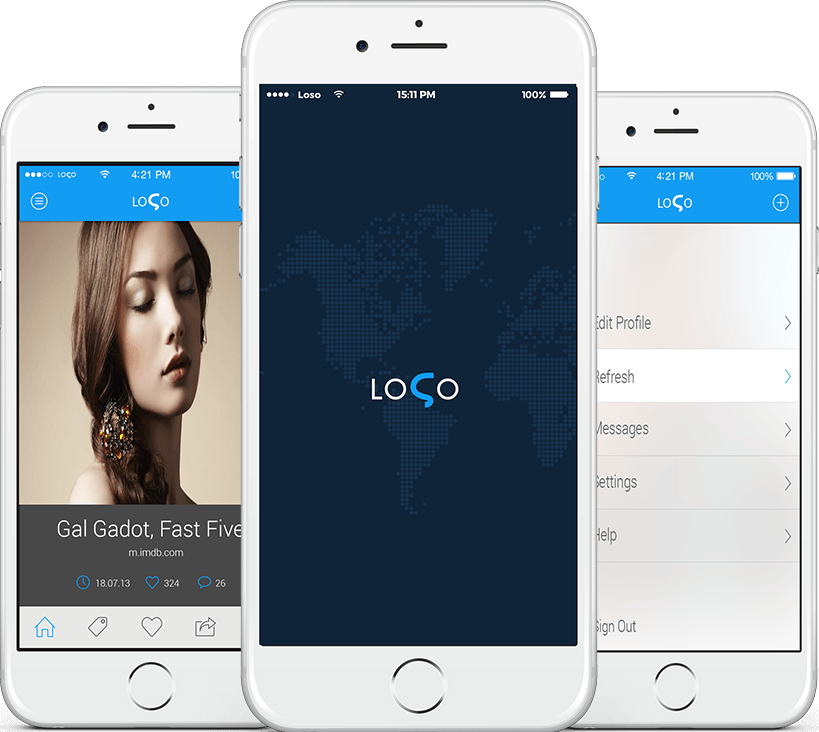
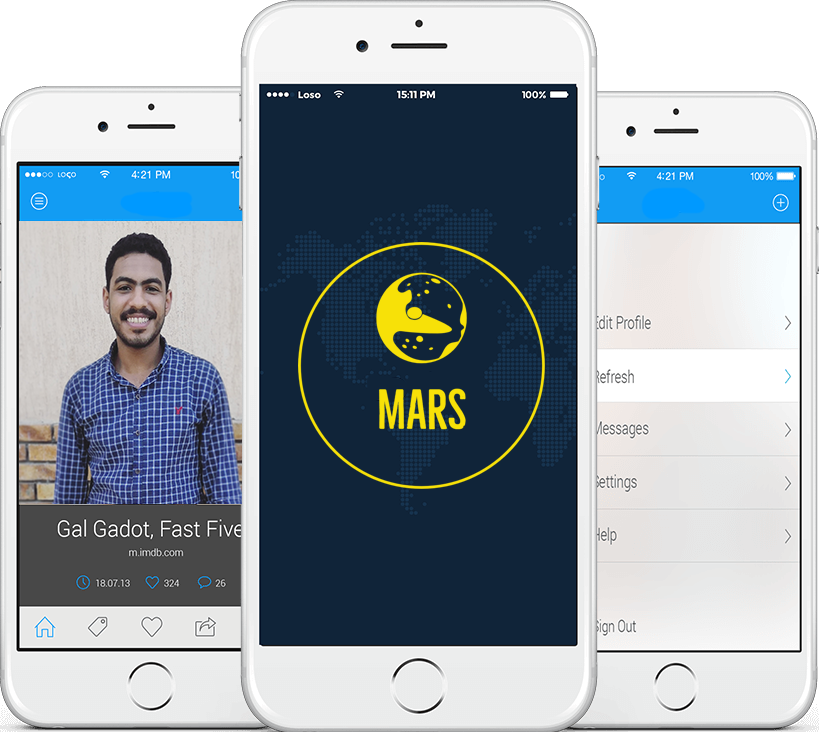
header

diff --git a/index.html b/index.html
@@ -3,47 +3,70 @@
 <html>
 
 <head>
-    <title>Loso</title>
+    <title>Mars</title>
     <meta charset="UTF-8" />
     <meta http-equiv="X-UA-Compatible" content="IE=edge" />
     <meta name="viewport" content="width=device-width, initial-scale=1.0" />
     <meta name="description" content="Simple, clean, responsive website built with html5, CSS3, Js, jQuery and Bootstrap" />
-
     <meta name="keywords" content="web, design, html, css, html5, css3, javascript, jquery, bootstrap, development" />
-
     <!-- Google Fonts -->
     <link rel="preconnect" href="https://fonts.googleapis.com" />
     <link rel="preconnect" href="https://fonts.gstatic.com" crossorigin />
-    <link href="https://fonts.googleapis.com/css2?family=Cairo:wght@200;300;400;500;600;700;800&family=Dancing+Script:wght@400;500;700&family=Indie+Flower&family=Pacifico&family=Patrick+Hand&family=Pushster&family=Raleway:ital,wght@0,300;0,400;0,500;0,700;0,800;1,700&display=swap"
-        rel="stylesheet" />
-    <link rel="preconnect" href="https://fonts.googleapis.com" />
-    <link rel="preconnect" href="https://fonts.gstatic.com" crossorigin />
-    <link href="https://fonts.googleapis.com/css2?family=Cairo:wght@200;300;400;500;600;700;800&family=Dancing+Script:wght@400;500;700&family=Indie+Flower&family=Pacifico&family=Patrick+Hand&family=Pushster&family=Raleway:ital,wght@0,300;0,400;0,500;0,700;0,800;1,700&family=Source+Sans+Pro:ital,wght@0,200;0,300;0,400;0,700;0,900;1,200;1,400;1,700&display=swap"
-        rel="stylesheet" />
-
+    <link href="https://fonts.googleapis.com/css2?family=Raleway:ital,wght@0,200;0,300;0,400;0,500;0,700;0,800;0,900;1,400;1,600;1,900&display=swap" rel="stylesheet" />
+    <link href="https://fonts.googleapis.com/css2?family=Source+Sans+Pro:ital,wght@0,400;0,600;0,700;0,900;1,300;1,400;1,600;1,700;1,900&display=swap" rel="stylesheet" />
     <!-- favicon -->
-    <link rel="icon" type="image/png" href="./images/favicon.png" />
-
-    <!-- CSS -->
+    <link rel="icon" type="image/png" href="./images/Mars (1).png" />
+    <!-- CSS Bootstrap -->
     <link rel="stylesheet" type="text/css" href="css/bootstrap.min.css" />
-
     <!-- Fontawesome  -->
-    <link rel="stylesheet" href="./css/fontawesome.min.css" />
+    <script src="https://kit.fontawesome.com/231bdf8c0f.js" crossorigin="anonymous"></script>
     <link rel="stylesheet" href="./css/all.min.css" />
-
     <!-- Animate CSS -->
     <!-- <link rel="stylesheet" type="text/css" href="css/animate.css"> -->
-
     <link rel="stylesheet" type="text/css" href="./css/style.css" />
-
     <!-- BX slider CSS -->
     <!-- <link rel="stylesheet" type="text/css" href="css/jquery.bxslider.css" /> -->
-
     <!-- responsive css -->
     <!-- <link rel="stylesheet" type="text/css" href="css/responsive.css"> -->
 </head>
 
 <body>
+    <header class="header">
+        <div class="header-overlay">
+            <div class="container">
+                <div class="row">
+                    <div class="col-md-12">
+                        <!-- logo -->
+                        <div class="logo text-center">
+                            <img src="./images/Mars.png" style="width: 220px; height: 60px" alt="logo" />
+                        </div>
+                    </div>
+                </div>
+                <div class="row">
+                    <div class="col-md-8">
+                        <div class="header-text">
+                            <!-- tittle & disc -->
+                            <h1>A clean and modern responsive web site</h1>
+                            <p>built with great love ♥</p>
+                            <div class="header-btns">
+                                <!-- header btns -->
+                                <a href="#" class="btn btn-download"> download</a>
+                                <a href="#" class="btn btn-tour">
+                    Take A Tour <i class="fas fa-angle-down"></i
+                  ></a>
+                            </div>
+                        </div>
+                    </div>
+                    <div class="col-md-4">
+                        <div class="header-iphone">
+                            <!-- header iphone -->
+                            <img src="./images/iphone-header.png " alt="header iphone" />
+                        </div>
+                    </div>
+                </div>
+            </div>
+        </div>
+    </header>
     <!-- Bootstrap JavaScript -->
     <script src="./js/jquery-3.6.0.js"></script>
     <script src="./js/bootstrap.min.js"></script>

diff --git a/css/style.css b/css/style.css
@@ -1,0 +1,115 @@
+* {
+    margin: 0;
+    padding: 0;
+    box-sizing: border-box;
+}
+
+body {
+    font-family: 'Raleway', sans-serif;
+    overflow-y: scroll;
+    overflow-x: hidden;
+}
+
+p {
+    font-size: 0.875rem;
+}
+
+
+/* ------------------------------------Header-------------------------------------- */
+
+.header {
+    background-image: url("../images/header-bg.jpg");
+    background-attachment: fixed;
+    background-repeat: no-repeat;
+    background-position: 50% 50%;
+    background-size: cover;
+    -webkit-background-size: cover;
+}
+
+.header-overlay {
+    background-color: rgba(31, 31, 31, 0.75);
+}
+
+.logo {
+    padding-top: 1.25rem;
+    padding-bottom: 3.125rem;
+}
+
+.header-text h1 {
+    color: white;
+    font-size: 2.500rem;
+    font-weight: 300;
+    line-height: 3.813rem;
+    padding-top: 1.875rem;
+    text-transform: uppercase;
+}
+
+.header-text p {
+    color: white;
+    font-size: 1.063rem;
+    font-weight: 300;
+    line-height: 1.75rem;
+}
+
+.header-btns {
+    margin-top: 90px;
+    margin-bottom: 50px;
+}
+
+.btn-download,
+.btn-download:focus,
+.btn-download:active,
+.btn-download:visited {
+    background: transparent;
+    border-color: #F3DE08;
+    padding-top: 10px;
+    padding-bottom: 10px;
+    padding-left: 30px;
+    padding-right: 30px;
+    font-size: 1.25rem;
+    text-transform: uppercase;
+    border-radius: 3px;
+    -webkit-transition: all 1s;
+    transition: all 1s;
+    color: #F3DE08;
+    font-weight: 400;
+}
+
+.btn-download:hover {
+    background-color: #F3DE08;
+    color: white;
+}
+
+.btn-tour,
+.btn-tour:focus,
+.btn-tour:active,
+.btn-tour:visited {
+    color: #F3DE08;
+    margin-left: 1.25rem;
+    text-transform: uppercase;
+    font-size: 1.25rem;
+    font-weight: 400;
+    background: transparent;
+    -webkit-transition: all 1s;
+    transition: all 1s;
+}
+
+.btn-tour:hover {
+    color: white;
+}
+
+.btn-tour i {
+    font-size: 1.25rem;
+    padding-left: 5px;
+    color: #F3DE08;
+    -webkit-transition: all 1s;
+    transition: all 1s;
+}
+
+.btn-tour:hover i {
+    color: white;
+}
+
+.header-iphone img {
+    width: 100%;
+}
